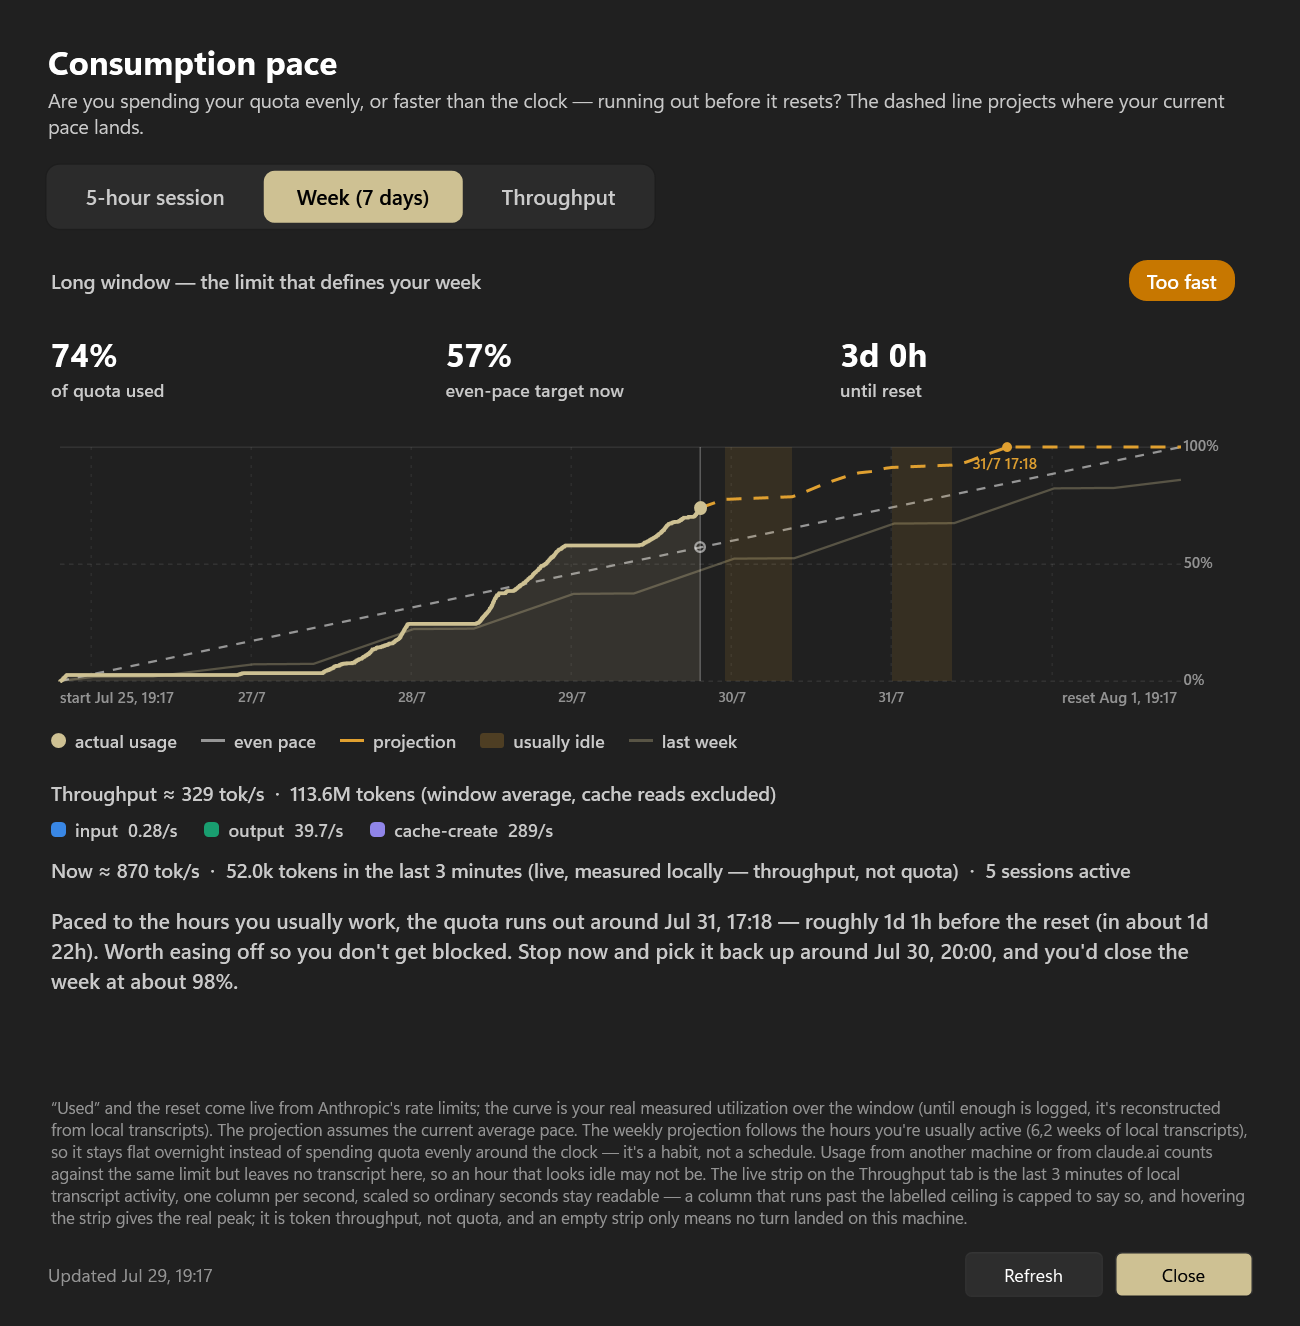
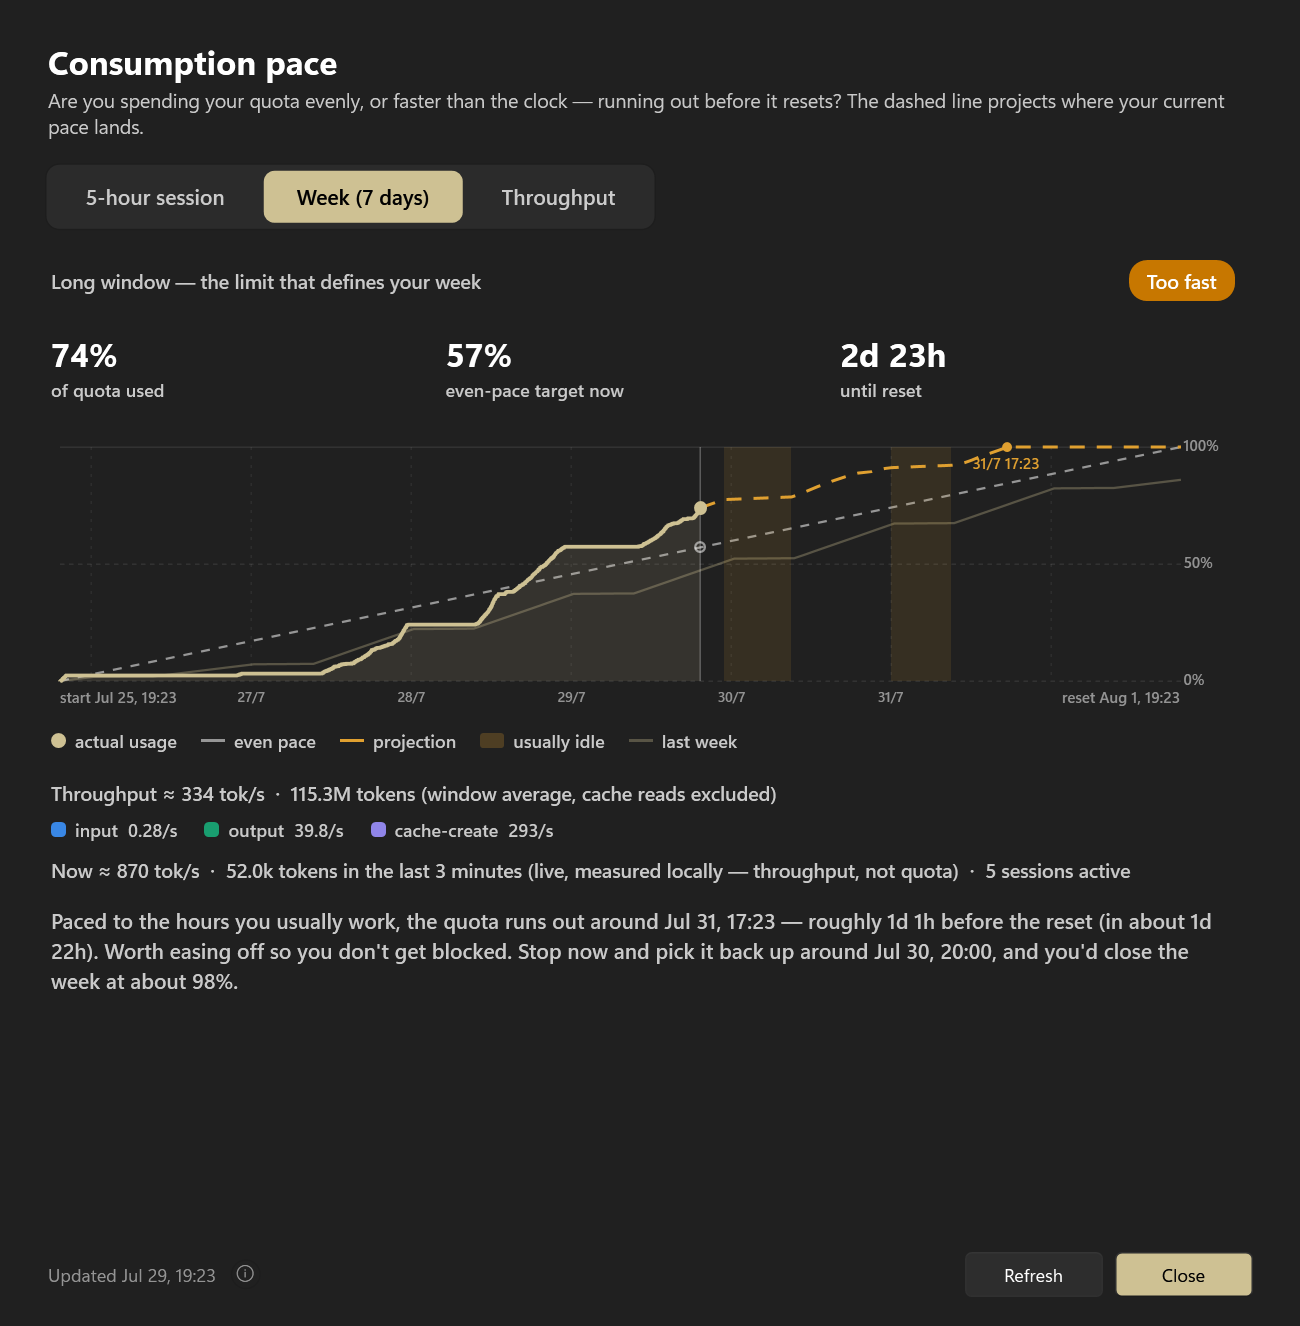
feat: the method note moves behind an info button (T113)
- feat: the method note is now accessible via an info button, reducing on-screen clutter.
- The button opens a popup with the same explanatory text, allowing users to access information on demand.
- This change improves the user interface by freeing up space previously occupied by the method note, enhancing overall readability.
- The method note's text remains unchanged, ensuring consistency across all languages.
- The layout adjustments allow for a more efficient use of screen real estate, particularly in the live statistics display.

diff --git a/StatisticsWindow.xaml b/StatisticsWindow.xaml
@@ -23,6 +23,42 @@
             <Setter Property="Foreground" Value="{DynamicResource TextFillColorSecondaryBrush}" />
         </Style>
 
+        <!-- The "i" that opens the method popup: a 20px round glyph button, quiet until pointed at and
+             filled while its popup is open, so the toggle state is visible without a second control. -->
+        <Style x:Key="InfoDot" TargetType="ToggleButton">
+            <Setter Property="Width" Value="20" />
+            <Setter Property="Height" Value="20" />
+            <Setter Property="FontFamily" Value="Segoe MDL2 Assets" />
+            <Setter Property="FontSize" Value="12" />
+            <Setter Property="Cursor" Value="Hand" />
+            <Setter Property="Foreground" Value="{DynamicResource TextFillColorTertiaryBrush}" />
+            <Setter Property="Template">
+                <Setter.Value>
+                    <ControlTemplate TargetType="ToggleButton">
+                        <Border x:Name="Dot" CornerRadius="10" Background="Transparent"
+                                BorderThickness="1"
+                                BorderBrush="{DynamicResource CardStrokeColorDefaultBrush}">
+                            <ContentPresenter HorizontalAlignment="Center" VerticalAlignment="Center" />
+                        </Border>
+                        <ControlTemplate.Triggers>
+                            <Trigger Property="IsMouseOver" Value="True">
+                                <Setter TargetName="Dot" Property="Background"
+                                        Value="{DynamicResource SubtleFillColorSecondaryBrush}" />
+                                <Setter Property="Foreground"
+                                        Value="{DynamicResource TextFillColorPrimaryBrush}" />
+                            </Trigger>
+                            <Trigger Property="IsChecked" Value="True">
+                                <Setter TargetName="Dot" Property="Background"
+                                        Value="{DynamicResource AccentFillColorDefaultBrush}" />
+                                <Setter Property="Foreground"
+                                        Value="{DynamicResource TextOnAccentFillColorPrimaryBrush}" />
+                            </Trigger>
+                        </ControlTemplate.Triggers>
+                    </ControlTemplate>
+                </Setter.Value>
+            </Setter>
+        </Style>
+
         <!-- Colored verdict pill; background + text are set in code from the pace verdict. -->
         <Style x:Key="VerdictChip" TargetType="Border">
             <Setter Property="CornerRadius" Value="12" />
@@ -309,7 +345,9 @@
 
                         <TextBlock x:Name="LiveHeadT" Margin="0,16,0,0" FontSize="13" TextWrapping="Wrap"
                                    Foreground="{DynamicResource TextFillColorSecondaryBrush}" />
-                        <Border x:Name="LiveStripT" Height="180" Margin="0,10,0,0" CornerRadius="6" ClipToBounds="True"
+                        <!-- 280px: the height the footer note gave back when it moved behind the ⓘ
+                             (T113). Pixels are what a rate this spiky actually needs. -->
+                        <Border x:Name="LiveStripT" Height="280" Margin="0,10,0,0" CornerRadius="6" ClipToBounds="True"
                                 Background="{DynamicResource SubtleFillColorSecondaryBrush}" />
                         <!-- The time axis, stated rather than implied: oldest second at the left, the
                              one still filling at the right. -->
@@ -350,10 +388,6 @@
                 </TabItem>
             </TabControl>
 
-            <TextBlock x:Name="MethodNote" Grid.Row="1" Margin="4,14,4,4" TextWrapping="Wrap" FontSize="11"
-                       Visibility="Collapsed"
-                       Foreground="{DynamicResource TextFillColorTertiaryBrush}"
-                       Text="{local:Loc stats.methodNote}" />
         </Grid>
 
         <!-- ===== Footer ===== -->
@@ -362,9 +396,38 @@
                 <ColumnDefinition Width="*" />
                 <ColumnDefinition Width="Auto" />
             </Grid.ColumnDefinitions>
-            <TextBlock Grid.Column="0" x:Name="ComputedText"
-                       VerticalAlignment="Center"
-                       Foreground="{DynamicResource TextFillColorTertiaryBrush}" />
+            <!-- "Updated …" and, beside it, the method behind every number in this window. It used to be
+                 six lines of 11px prose pinned under the panes, which is a lot of screen for something
+                 you read once — it is now on demand, same text, one click (T113). -->
+            <StackPanel Grid.Column="0" Orientation="Horizontal" VerticalAlignment="Center">
+                <TextBlock x:Name="ComputedText"
+                           VerticalAlignment="Center"
+                           Foreground="{DynamicResource TextFillColorTertiaryBrush}" />
+                <ToggleButton x:Name="MethodInfo" Margin="10,0,0,0" Visibility="Collapsed"
+                              Style="{StaticResource InfoDot}"
+                              ToolTip="{local:Loc stats.methodTitle}"
+                              Content="&#xE946;" />
+                <Popup IsOpen="{Binding IsChecked, ElementName=MethodInfo, Mode=TwoWay}"
+                       PlacementTarget="{Binding ElementName=MethodInfo}" Placement="Top"
+                       VerticalOffset="-8" HorizontalOffset="-8"
+                       StaysOpen="False" AllowsTransparency="True" PopupAnimation="Fade">
+                    <Border MaxWidth="560" CornerRadius="8" Padding="16,14" Margin="8"
+                            Background="{DynamicResource SolidBackgroundFillColorSecondaryBrush}"
+                            BorderBrush="{DynamicResource CardStrokeColorDefaultBrush}" BorderThickness="1">
+                        <Border.Effect>
+                            <DropShadowEffect BlurRadius="16" ShadowDepth="2" Opacity="0.35" Direction="270" />
+                        </Border.Effect>
+                        <StackPanel>
+                            <TextBlock Text="{local:Loc stats.methodTitle}" FontWeight="SemiBold" FontSize="13"
+                                       Foreground="{DynamicResource TextFillColorPrimaryBrush}" />
+                            <TextBlock x:Name="MethodNote" Margin="0,8,0,0" TextWrapping="Wrap" FontSize="12"
+                                       LineHeight="18"
+                                       Foreground="{DynamicResource TextFillColorSecondaryBrush}"
+                                       Text="{local:Loc stats.methodNote}" />
+                        </StackPanel>
+                    </Border>
+                </Popup>
+            </StackPanel>
             <StackPanel Grid.Column="1" Orientation="Horizontal">
                 <Button x:Name="RefreshButton" Content="{local:Loc stats.refresh}"
                         MinWidth="92" Padding="14,6" Margin="0,0,8,0"

diff --git a/StatisticsWindow.xaml.cs b/StatisticsWindow.xaml.cs
@@ -85,6 +85,11 @@ internal partial class StatisticsWindow : Window
     /// tail, so the screenshot of a *moving* row is reproducible. See <c>--stats live</c>.</summary>
     internal bool PreviewDemoLive { get; init; }
 
+    /// <summary>Dev/preview seam: open the method popup on first render. It is a separate top-level
+    /// window, so the off-screen <c>RenderTargetBitmap</c> path cannot capture it — this is how it gets
+    /// looked at. See <c>--stats method</c>.</summary>
+    internal bool PreviewMethodOpen { get; init; }
+
     public StatisticsWindow(PaceSnapshot? snapshot, bool showRemaining = false, string? error = null)
     {
         _snapshot = snapshot;
@@ -250,7 +255,10 @@ internal partial class StatisticsWindow : Window
         StatusText.Text = message;
         StatusText.Visibility = Visibility.Visible;
         PanesBody.Visibility = Visibility.Collapsed;
-        MethodNote.Visibility = Visibility.Collapsed;
+        // No report, nothing to explain: the "i" goes with the panes it describes, and its popup is
+        // closed rather than left hanging over a status message.
+        MethodInfo.IsChecked = false;
+        MethodInfo.Visibility = Visibility.Collapsed;
         ErrorBanner.Visibility = Visibility.Collapsed;
     }
 
@@ -285,7 +293,8 @@ internal partial class StatisticsWindow : Window
 
         StatusText.Visibility = Visibility.Collapsed;
         PanesBody.Visibility = Visibility.Visible;
-        MethodNote.Visibility = Visibility.Visible;
+        MethodInfo.Visibility = Visibility.Visible;
+        if (PreviewMethodOpen) MethodInfo.IsChecked = true;
         ApplyErrorBanner();
 
         _session = r.Session;

diff --git a/Program.cs b/Program.cs
@@ -263,6 +263,18 @@ internal static class Program
                     PreviewDemoLive = true,
                 });
             }
+            // "--stats method" opens the window with the method popup already up. It is its own
+            // top-level window, so --capture-stats (RenderTargetBitmap over the content) cannot see it;
+            // this is the path that gets it on screen for the capture script.
+            else if (args.Length >= 2 && args[1].Equals("method", StringComparison.OrdinalIgnoreCase))
+            {
+                previewApp.Run(new StatisticsWindow(sample, remaining)
+                {
+                    Topmost = true,
+                    PreviewDemoLive = true,
+                    PreviewMethodOpen = true,
+                });
+            }
             else if (args.Length >= 2 && args[1].Equals("idle", StringComparison.OrdinalIgnoreCase))
             {
                 // Preview the "not using Claude" state: the 5h session is idle (0% used → flat chart),

diff --git a/CHANGELOG.md b/CHANGELOG.md
@@ -165,6 +165,10 @@
 
 - **T112** — One second may no longer flatten the minute. Even with T110's honest axis and T111's 220px of height, real traffic has a dynamic range a linear scale cannot hold: measured here, a single turn writing a large cache block lands **~240,000 tokens in one second** beside ordinary seconds of ~2,000, so scaling to the peak put a whole minute of actual work on the 1px floor — a chart that was technically faithful and practically unreadable. The ceiling is now the **95th percentile of the busy seconds on screen**, and the columns that run past it are drawn **broken**: fill stops 4px short, then a 2px cap in the primary ink (not a softer grey — it would be mistaken for the grey "others" series it can sit directly above) says *this continues*. Truncation is from the top of the stack, so every segment keeps its true scale; squashing the column to fit would have misreported all of them. Three guards keep the cut from costing more than it buys: the quantile is taken over **busy** seconds only (including idle ones drags it to zero and clips everything), clipping needs **12** busy seconds (on a sparse strip the few bars are the whole story), and it needs the peak to be a genuine outlier — **2× the quantile** — so ordinary traffic keeps a fully faithful peak-based axis and nothing is cut to buy contrast that isn't needed. Clipping data is a thing a monitor may only do out loud, so the hover changes when it happens: how many columns were capped, and what the busiest second actually carried (singular and plural keys, ×5 languages), and it is rebuilt only when that *text* changes, since the peak moves every second but "240k/s" does not. The method note was reworded in all five languages for the same reason. The `--stats live` fixture gained the outlier it was missing — without one it published a strip the app rarely draws. Verified against the fixture and the real tail in English and pt-BR: with the spike present the axis reads 3k/s and three columns carry caps; on ordinary traffic (peak 7k, quantile 5k) nothing is clipped at all and the axis is the rounded peak, exactly as before.
 
+## Block M — Explain on demand
+
+- **T113** — The method note becomes an **ⓘ**. Six lines of 11px prose sat pinned under the panes on every tab, permanently, to explain where the numbers come from — a lot of screen for something you read once, and (reported from the field the moment the Throughput tab made it conspicuous) it read as a wall. It is now a 20px round info button beside "Updated …" in the footer, opening a popup with the same text under a "How these numbers are measured" heading: quiet by default, accent-filled while its popup is up, so the toggle state needs no second control. Click-away closes it (`StaysOpen="False"` with a two-way `IsChecked` binding, so the button un-checks when the popup dismisses itself), and it is hidden — and force-closed — whenever the panes are, since a method note has nothing to explain over a status message. A popup is its own top-level window, so `--capture-stats` (a `RenderTargetBitmap` over the window's content) structurally cannot see it; `--stats method` opens it for the on-screen capture script instead, and that is how it was verified. One new key across all five `lang/*.json`; the note's own text is unchanged, so there is nothing new to say in the README or on the site. The ~110px it gave back went straight into the live strip (180 → **280px**), which is the whole reason the block exists: a rate this spiky is a pixel problem before it is a design one. Published `docs/statistics-*.png` regenerated without the footer wall.
+
 ## Block L — Scan resilience
 
 - **T109** — `SafeWalk.cs`: one unreadable directory can no longer blank the app. Reported from the field as *"couldn't build the report: the path cannot be traversed because it contains an untrusted mount point"* — a `memory` junction inside `~/.claude/projects` that Windows' Redirection Guard refuses to traverse, which aborted the framework's `AllDirectories` enumeration and with it the **entire** Statistics window: no charts, no numbers, just the error. The same single point of failure sat under every local scan (`UsageReport.ScanTokens`, `UsageInsights`, `ActivityProfile`, `ContextUsage`, `TranscriptTail` and the recursive `ContextScanner` helpers), so a denied ACL, a session folder deleted mid-sweep or a path past MAX_PATH anywhere under `projects/` cost the user everything downstream of it. The walk is now per directory, so a failure is scoped to the subtree that caused it. Three things the naive version gets wrong and this one doesn't: entries are **materialized** (`GetFiles`, not `EnumerateFiles`) — the `try`/`catch` wrappers the codebase already had around lazy enumerables caught *nothing*, because the IO happens later inside the caller's `foreach`; a reparse point is **replaced by the path it names before anything opens it**, which both sidesteps the blocked traversal (opening the real directory is allowed — only going *through* the link is refused) and walks a shared target once instead of once per junction (this machine has three pointing at the same `_turing-shared\memory`); and children come back as `DirectoryInfo`, whose attributes the enumeration already filled in, so detecting those reparse points costs no extra syscall — ~46ms vs ~34ms over 600 transcripts, and a fresh context scan 95ms vs 73ms. Verified against a hostile fixture (a junction plus a directory with read denied by ACL) where the framework walker throws and the walk returns every readable file exactly once, and against the real tree for equivalence: the `--context` report is identical line for line, 969 files across 35 projects, and the Statistics window renders in pt-BR. Depth cap plus a visited set for the junction-pointing-at-its-own-ancestor case. No user-visible strings — the fix is that the existing ones stop appearing.

diff --git a/last-task.md b/last-task.md
@@ -1,10 +1,10 @@
-# Last task number — `T112` · next block letter — `M`
+# Last task number — `T113` · next block letter — `N`
 
-> **Single source of truth for the next free task number.** The next new task is `T113`; after
+> **Single source of truth for the next free task number.** The next new task is `T114`; after
 > assigning it, bump the number above and append a log line below.
 >
-> **Next block letter — `M`** (Block **L** = Scan resilience — no single unreadable directory under
-> `~/.claude` may fail a whole scan; created 2026-07-29 from a field report).
+> **Next block letter — `N`** (Block **M** = Explain on demand — the Statistics window's method note
+> moves behind an ⓘ; created 2026-07-29 from a field report).
 >
 > **`CHANGELOG.md` — not `ROADMAP.md` — is authoritative for the real maximum block letter**, since
 > the roadmap is periodically pruned of fully-shipped blocks. Grep it before bumping the letter.
@@ -36,6 +36,9 @@
 - **T110–T112** (2026-07-29) stay in Block **K** rather than opening M: all three are the live strip's
   own presentation — T110 its scale, T111 its own tab, T112 its handling of outliers. T110 took the
   magnitude half of K's own T104, which remains open for the per-column hover.
+- Block **M** (T113, created 2026-07-29) is a one-task block on the *window's* chrome rather than a
+  fourth Block K item: K is the live strip, and the method note it hid behind an ⓘ describes every
+  number in the window. Block L set the precedent that a block may hold a single task.
 - Docs live at the **repo root** (`ROADMAP.md`, `CHANGELOG.md`, `IMPROVEMENTS.md`, `STRATEGY.md`,
   `last-task.md`), not under `docs/` — `docs/` is the published GitHub Pages site.
 
@@ -80,3 +83,4 @@ here. This file is a terse index, not a memory.
 - **T110 SHIPPED** (Block K — the strip draws, and scales to, the 3 minutes it shows) — 2026-07-29.
 - **T111 SHIPPED** (Block K — the live strip moves to a Throughput tab of its own) — 2026-07-29.
 - **T112 SHIPPED** (Block K — percentile ceiling and broken-bar marks for outlier seconds) — 2026-07-29.
+- **T113 SHIPPED** (Block M — the method note moves behind an info button and popup) — 2026-07-29.

diff --git a/AGENTS.md b/AGENTS.md
@@ -107,7 +107,10 @@ dotnet run -- --activity --fold       # fold every complete day of the raw log i
 dotnet run -- --stats shape           # the Statistics window on the weekly tab, activity-aware
                                       #   projection running out before the reset (bands + landing)
 dotnet run -- --stats shape ghost     # ...plus a synthetic previous-week ghost curve
-dotnet run -- --capture-stats docs\_preview\shape shape   # ...both tabs to PNG, off-screen
+dotnet run -- --stats method          # ...with the "how these numbers are measured" popup already open
+                                      #   (it's a separate top-level window, so --capture-stats can't
+                                      #   see it — use scripts\Capture-Window.ps1 for this one)
+dotnet run -- --capture-stats docs\_preview\shape shape   # ...all three tabs to PNG, off-screen
 
 dotnet run -- --context               # what every session costs before you type: per-project table
 dotnet run -- --context <slug|name>   # one project, source by source (eager/lazy, bytes, ≈tokens)
